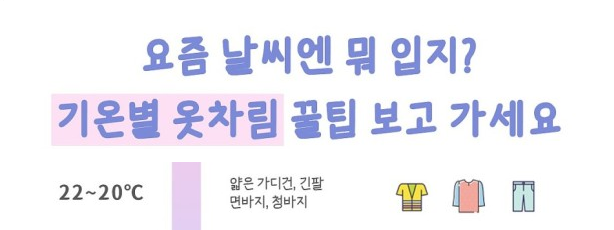
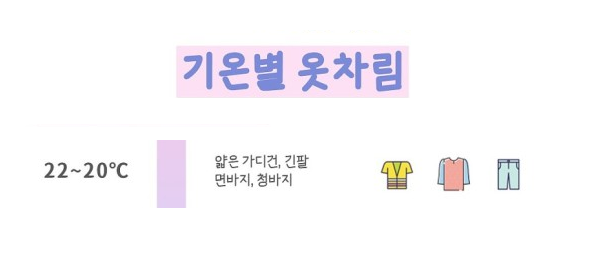
각 온도별 코디추천

diff --git a/map.html b/map.html
@@ -25,7 +25,7 @@
             <meta name="viewport" content="width=device-width,
                 initial-scale=1.0, maximum-scale=1.0, user-scalable=no" />
             <style>
-                #map_1190bc9ec343446026642d12c02a8fee {
+                #map_ae22561eb8f0c2479cf345c24d8229a6 {
                     position: relative;
                     width: 100.0%;
                     height: 100.0%;
@@ -39,18 +39,18 @@
 <body>
     
     
-            <div class="folium-map" id="map_1190bc9ec343446026642d12c02a8fee" ></div>
+            <div class="folium-map" id="map_ae22561eb8f0c2479cf345c24d8229a6" ></div>
         
 </body>
 <script>
     
     
-            var map_1190bc9ec343446026642d12c02a8fee = L.map(
-                "map_1190bc9ec343446026642d12c02a8fee",
+            var map_ae22561eb8f0c2479cf345c24d8229a6 = L.map(
+                "map_ae22561eb8f0c2479cf345c24d8229a6",
                 {
-                    center: [37.481223, 126.9527151],
+                    center: [37.4975, 126.8501],
                     crs: L.CRS.EPSG3857,
-                    zoom: 13,
+                    zoom: 15,
                     zoomControl: true,
                     preferCanvas: false,
                 }
@@ -60,28 +60,28 @@
 
         
     
-            var tile_layer_40c3feba8de934f73475ef378bcb8c7b = L.tileLayer(
+            var tile_layer_8412d7e0cd2a88cdf34e722defeee7b7 = L.tileLayer(
                 "https://{s}.tile.openstreetmap.org/{z}/{x}/{y}.png",
                 {"attribution": "Data by \u0026copy; \u003ca target=\"_blank\" href=\"http://openstreetmap.org\"\u003eOpenStreetMap\u003c/a\u003e, under \u003ca target=\"_blank\" href=\"http://www.openstreetmap.org/copyright\"\u003eODbL\u003c/a\u003e.", "detectRetina": false, "maxNativeZoom": 18, "maxZoom": 18, "minZoom": 0, "noWrap": false, "opacity": 1, "subdomains": "abc", "tms": false}
-            ).addTo(map_1190bc9ec343446026642d12c02a8fee);
+            ).addTo(map_ae22561eb8f0c2479cf345c24d8229a6);
         
     
-            var marker_e8bf32e77f54f91d7c0a5e2c1c42d5e8 = L.marker(
-                [37.481223, 126.9527151],
+            var marker_b77886dd095ecbeb69196d40641667af = L.marker(
+                [37.4975, 126.8501],
                 {}
-            ).addTo(map_1190bc9ec343446026642d12c02a8fee);
+            ).addTo(map_ae22561eb8f0c2479cf345c24d8229a6);
         
     
-        var popup_567d5fa0b2fa69663e9a7aebf5bc89d5 = L.popup({"maxWidth": "100%"});
+        var popup_94e051777413edf69c2faa74dfccfdfd = L.popup({"maxWidth": "100%"});
 
         
             
-                var html_68623c249404718af6ff46c24c2f2993 = $(`<div id="html_68623c249404718af6ff46c24c2f2993" style="width: 100.0%; height: 100.0%;">서울대</div>`)[0];
-                popup_567d5fa0b2fa69663e9a7aebf5bc89d5.setContent(html_68623c249404718af6ff46c24c2f2993);
+                var html_3f5d37cf4f284eaa92ede29a20e1c4d6 = $(`<div id="html_3f5d37cf4f284eaa92ede29a20e1c4d6" style="width: 100.0%; height: 100.0%;">현재 위치</div>`)[0];
+                popup_94e051777413edf69c2faa74dfccfdfd.setContent(html_3f5d37cf4f284eaa92ede29a20e1c4d6);
             
         
 
-        marker_e8bf32e77f54f91d7c0a5e2c1c42d5e8.bindPopup(popup_567d5fa0b2fa69663e9a7aebf5bc89d5)
+        marker_b77886dd095ecbeb69196d40641667af.bindPopup(popup_94e051777413edf69c2faa74dfccfdfd)
         ;
 
         

diff --git a/Supplies-of-Today.py b/Supplies-of-Today.py
@@ -323,8 +323,24 @@ class ProjectSoT:
         return msg2_5, msg10
 
     def recommend_outfit(self):
-        fashionImage = Image.open("fashion.png")
-        fashionImage = fashionImage.resize((496, 662))  # 이미지 크기 조정
+        if self.temperatures[0]>=28.0:
+            fashionImage = Image.open("fashion_28도이상.png")
+        elif (self.temperatures[0]<=27.0) and (self.temperatures[0]>=23.0):
+            fashionImage = Image.open("fashion_27도이하.png")
+        elif (self.temperatures[0]<=22.0) and (self.temperatures[0]>=20.0):
+            fashionImage = Image.open("fashion_22도이하.png")
+        elif (self.temperatures[0]<=19.0) and (self.temperatures[0]>=17.0):
+            fashionImage = Image.open("fashion_19도이하.png")
+        elif (self.temperatures[0]<=16.0) and (self.temperatures[0]>=12.0):
+            fashionImage = Image.open("fashion_16도이하.png")
+        elif (self.temperatures[0]<=11.0) and (self.temperatures[0]>=9.0):
+            fashionImage = Image.open("fashion_11도이하.png")
+        elif (self.temperatures[0]<=8.0) and (self.temperatures[0]>=5.0):
+            fashionImage = Image.open("fashion_8도이하.png")
+        else:
+            fashionImage = Image.open("fashion_4도이하.png")
+
+        fashionImage = fashionImage.resize((400, 200))  # 이미지 크기 조정
 
         # 이미지를 Tkinter에서 사용할 수 있는 형식으로 변환
         self.img_tk = ImageTk.PhotoImage(fashionImage)
@@ -333,7 +349,7 @@ class ProjectSoT:
         outfit_window = Toplevel(self.window)
         outfit_window.title("온도에 따른 코디 👗")
 
-        label = Label(outfit_window, image=self.img_tk, width=496, height=662)
+        label = Label(outfit_window, image=self.img_tk, width=400, height=200)
         label.pack()
 
     def moveToFrame2(self):
